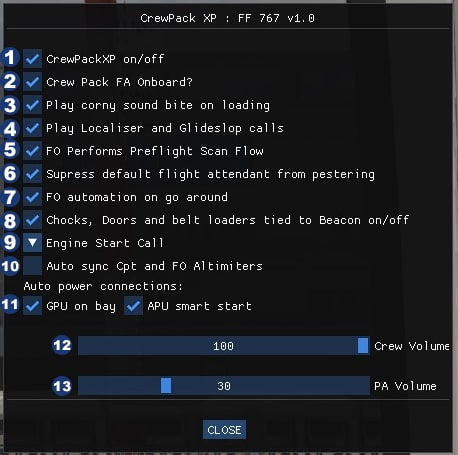
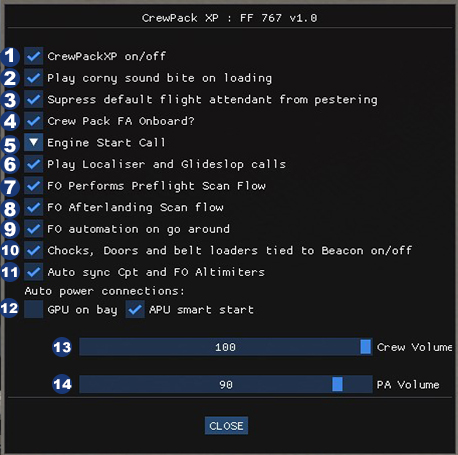
#46 767 After-landing scan flow
Added additional items for the FO to complete the after-landing scan flow decelerating through 30 kts.

diff --git a/docs/757.md b/docs/757.md
@@ -20,18 +20,19 @@ The aircraft settings window can be accessed via two methods.
 > ![Settings](imgs/FF767/757settings.jpg)  
 > 
 > 1. 'Master Switch' - disables CrewPackXP for the loaded aircraft.  
-> 2. CrewPackXP PA's associated with the flight attendant.  
-> 3. Once the script has been initialised, a short and very tacky sound bite will play as confirmation.  
-> 4. Enables the `Localiser Alive` and `Glideslope Alive` calls from the First Officer.  
-> 5. The First Officer will automatically perform the pre-flight scan flow once the script has been initialised.  
-> 6. Completely suppresses the default Flight Factor Flight Attendant.  
-> 7. When entering TOGA, the FO will automatically help reconfigure the aircraft.  
-> 8. With the beacon and engines off, Ground Service Equipment will automatically be called to the aircraft.  
-> 9. Dropdown menu to select between `Starting Number 1` or `Starting Left Engine` format for the voice call associated with engine start.  
-> 10. Automatically synchronizes the First Officer Altimeter with the setting on the captain's side every few seconds.  
-> 11. Indicates preference for either GPU or APU to be used during turnarounds, or both.  
-> 12. Volume slider to control the cockpit crew callouts  
-> 13. Volume slider to control the flight attendant making PAs in the cabin.  
+> 2. Once the script has been initialised, a short and very tacky sound bite will play as confirmation.  
+> 3. Completely suppresses the default Flight Factor Flight Attendant.  
+> 4. CrewPackXP PA's associated with the flight attendant.  
+> 5. Dropdown menu to select between `Starting Number 1` or `Starting Left Engine` format for the voice call associated with engine start.  
+> 6. Enables the `Localiser Alive` and `Glideslope Alive` calls from the First Officer.  
+> 7. The First Officer will automatically perform the pre-flight scan flow once the script has been initialised.  
+> 8. The First Officer will automatically perform the after-landing scan flow once the aircraft decelerates through 30 kts.  
+> 9. When entering TOGA, the FO will automatically help reconfigure the aircraft.  
+> 10. With the beacon and engines off, Ground Service Equipment will automatically be called to the aircraft.  
+> 11. Automatically synchronizes the First Officer Altimeter with the setting on the captain's side every few seconds.  
+> 12. Indicates preference for either GPU or APU to be used during turnarounds, or both.  
+> 13. Volume slider to control the cockpit crew callouts  
+> 14. Volume slider to control the flight attendant making PAs in the cabin.  
 
 
 ---
@@ -98,8 +99,15 @@ The First Officer will attempt to do the following:
 > The Flight Attendants will attempt to open all of the cabin blinds.
 > The ground crew will perform their respective duties as per the ` GSE with Beacon` section of the manual.
 
+### First Officer After Landing  
+The First Officer's after landing scan flow will automatically commence as the aircraft decelerates through 30 knots after landing. There are two settings that control this behaviour, deselecting APU at item 12 will prevent the First Officer attempting to start the APU. Item 8 will prevent reconfiguring the aircraft as follows:
+> - Sets the weather radar to off and the tilt control full up.
+> - Sets the auto-brake to off.
+> - Retracts the flaps to zero.
+> - Sets the transponder from 'TA/RA' to 'ALT ON' mode.
+
 ### First Officer Secure Checks
-The First Officer secure checks can only be called from the Status HUD. The First Officer will only complete these actaions provided the beacon is off, and both engines N2 is below 5%. Whilst running the checks, there will be a moment where the First Officer will pause and await the APU to shut down prior to completely powering down the aircraft.
+The First Officer secure checks can only be called from the Status HUD. The First Officer will only complete these actions provided the beacon is off, and both engines N2 is below 5%. Whilst running the checks, there will be a moment where the First Officer will pause and await the APU to shut down prior to completely powering down the aircraft.
 
 The First Officer will attempt to secure the following:
 > - Anti-Ice, Hydraulics and Fuel panels.
@@ -157,7 +165,7 @@ During take-off the following calls can be expected:
 ##### Flaps
 Callouts are provided for all stages of flap selection.  
 The callout will occur after the flap lever has been in a new flap position detent for one second.  
-Flap callouts are inhibited on the ground.
+Flap zero callout is inhibited on the ground.
 
 ##### Gear
 Callouts are provided for gear selection. This is triggered when the gear handle is moved into either the up or down position.
